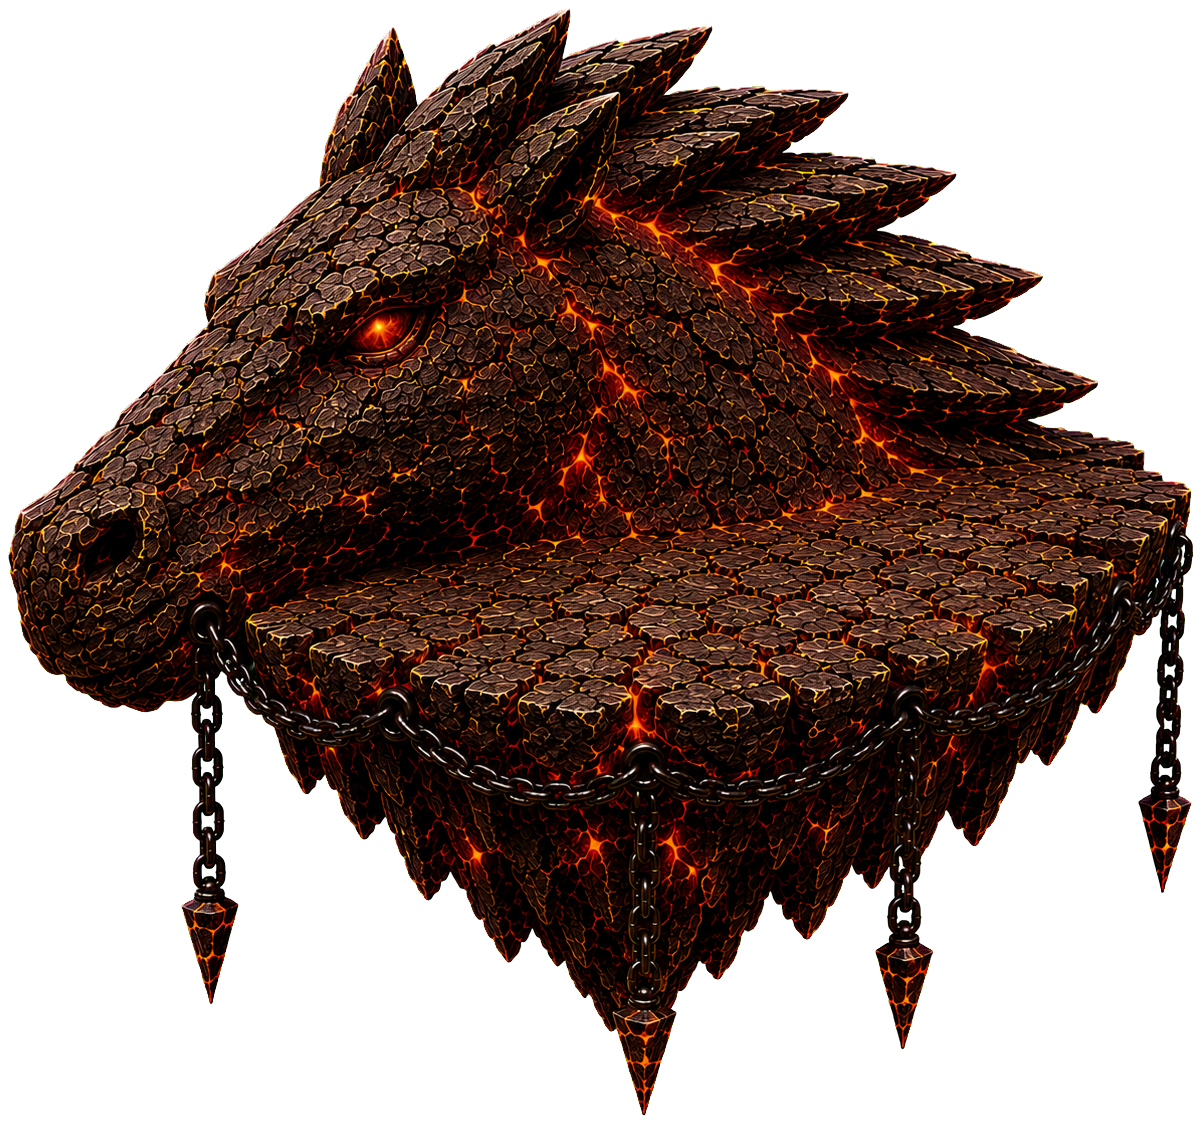
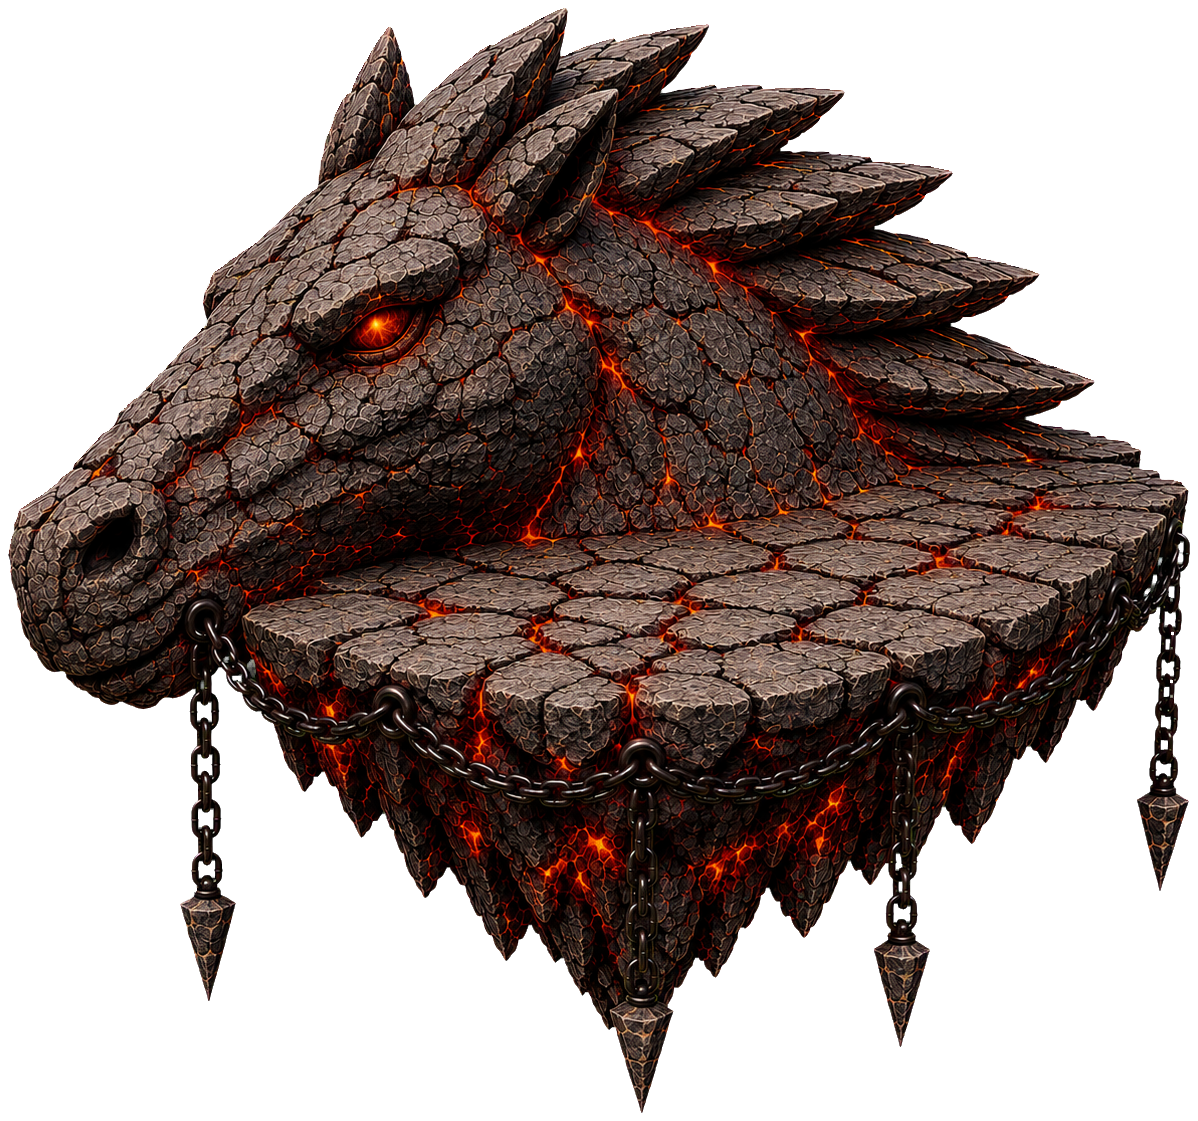
Replace dragon platform and add horse lava rock

diff --git a/app.js b/app.js
@@ -2255,7 +2255,7 @@ function startColtRunGame() {
   platformAssetVersions[28] = "20260721-platform29-challenge1";
   platformAssetVersions[29] = "20260721-platform30-challenge1";
   platformAssetVersions[30] = "20260721-platform31-challenge1";
-  platformAssetVersions[dragonHeadPlatformSpriteIndex] = "20260721-platform32-dragon-head1";
+  platformAssetVersions[dragonHeadPlatformSpriteIndex] = "20260722-platform32-dragon-head2";
   const platformSpriteSources = platformAssetVersions.map((version, index) => (
     `assets/colt-run-platform-${String(index + 1).padStart(2, "0")}.png?v=${version}`
   ));
@@ -2321,12 +2321,13 @@ function startColtRunGame() {
     }
     return platform.y + drawH * (surfaceRatio - platformSurfaceRatios[spriteIndex]);
   };
-  const lavaRockSpriteSources = Array.from({ length: 13 }, (_, index) => (
+  const lavaRockSpriteSources = Array.from({ length: 14 }, (_, index) => (
     `assets/colt-run-lava-rock-${String(index + 1).padStart(2, "0")}.png?v=20260707-rocks6`
   ));
   lavaRockSpriteSources[10] = "assets/colt-run-lava-rock-11.png?v=20260721-new-rocks1";
   lavaRockSpriteSources[11] = "assets/colt-run-lava-rock-12.png?v=20260721-new-rocks1";
   lavaRockSpriteSources[12] = "assets/colt-run-lava-rock-13.png?v=20260721-new-rocks1";
+  lavaRockSpriteSources[13] = "assets/colt-run-lava-rock-14.png?v=20260722-horse-head1";
   const lavaRockSprites = lavaRockSpriteSources.map(() => new Image());
   const ensureLavaRockSprite = index => {
     const spriteIndex = Math.abs(index) % lavaRockSprites.length;
@@ -2373,6 +2374,7 @@ function startColtRunGame() {
     { coreX: 0.32, coreY: 0.68, rx: 0.21, ry: 0.2 },
     { coreX: 0.34, coreY: 0.67, rx: 0.25, ry: 0.25 },
     { coreX: 0.16, coreY: 0.78, rx: 0.14, ry: 0.19 },
+    { coreX: 0.30, coreY: 0.66, rx: 0.25, ry: 0.27 },
     { coreX: 0.30, coreY: 0.66, rx: 0.25, ry: 0.27 }
   ];
   const lavaRockShowerHitProfiles = [
@@ -2422,7 +2424,7 @@ function startColtRunGame() {
   const lavaRockVideoSpecialHitProfiles = [
     { coreX: 0.35, coreY: 0.66, rx: 0.2, ry: 0.2 }
   ];
-  const lavaRockSizeMultipliers = [0.72, 0.92, 0.92, 0.9, 0.9, 0.82, 0.84, 0.84, 0.9, 0.9, 0.88, 1.18, 0.9];
+  const lavaRockSizeMultipliers = [0.72, 0.92, 0.92, 0.9, 0.9, 0.82, 0.84, 0.84, 0.9, 0.9, 0.88, 1.18, 0.9, 0.9];
   const backgroundSpriteSources = Array.from({ length: 5 }, (_, index) => (
     `assets/colt-run-bg-${String(index + 1).padStart(2, "0")}.png?v=20260719-background-stills-match-videos1`
   ));
